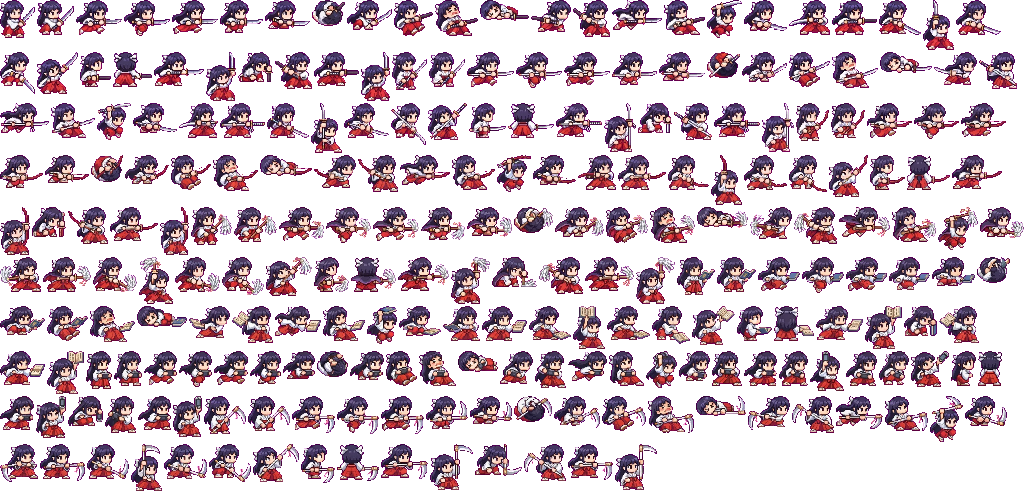
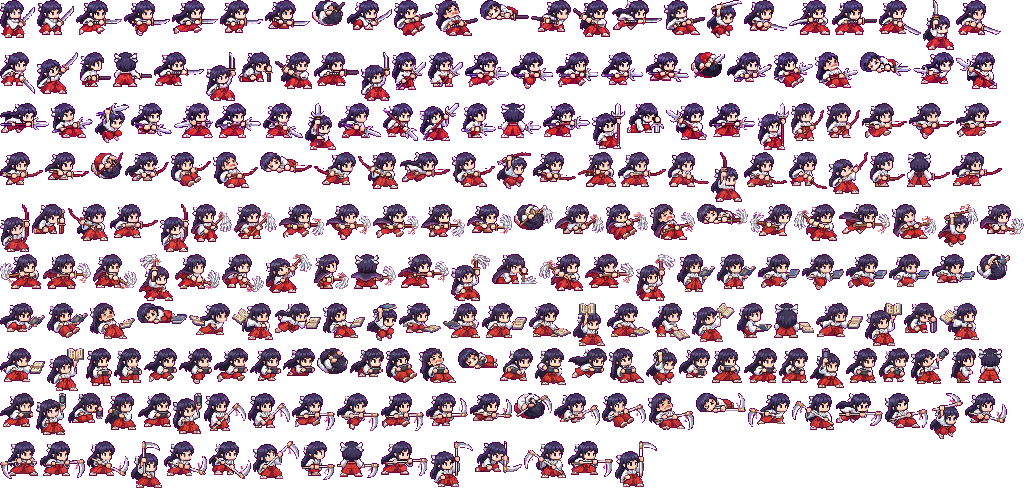
替换白衣巫女十文字枪动作

diff --git a/docs/TODO.md b/docs/TODO.md
@@ -406,7 +406,8 @@
 - 共 693 帧通过非空与边界核对。Chrome 检查 PC 与 390px 选人、三角色短时镰刀战斗、月冠公主高塔和宫殿入口及三人校准页，无页面脚本错误。
 
 ## 白衣巫女
-- 接入白衣巫女七武器 231 帧，剑系使用用户最后确认的带刀鞘太刀表，枪系保留原第七张太刀作占位。角色沿用基础属性。
+- 接入白衣巫女七武器 231 帧，剑系使用用户最后确认的带刀鞘太刀表，枪系使用新十文字枪素材。角色沿用基础属性。
 - 231 帧通过非空与越界检查。Chrome 基础核对电脑及手机竖屏选人、镰刀实战、高塔、宫殿、校准页，无脚本错误。
 - 撤回上一轮枪系素材替换，重建剑系与对比图。上线前核对四位新增角色七系共 924 帧的映射、非空与边界，并用 Chrome 核对白衣巫女新版剑系及各入口。
 - 星铠机兵枪系换用银蓝枪原图，更新 33 帧和对比图；其余六系逐帧核对像素与锚点一致。
+- 白衣巫女枪系替换为十文字枪，33 帧通过非空和越界检查。
